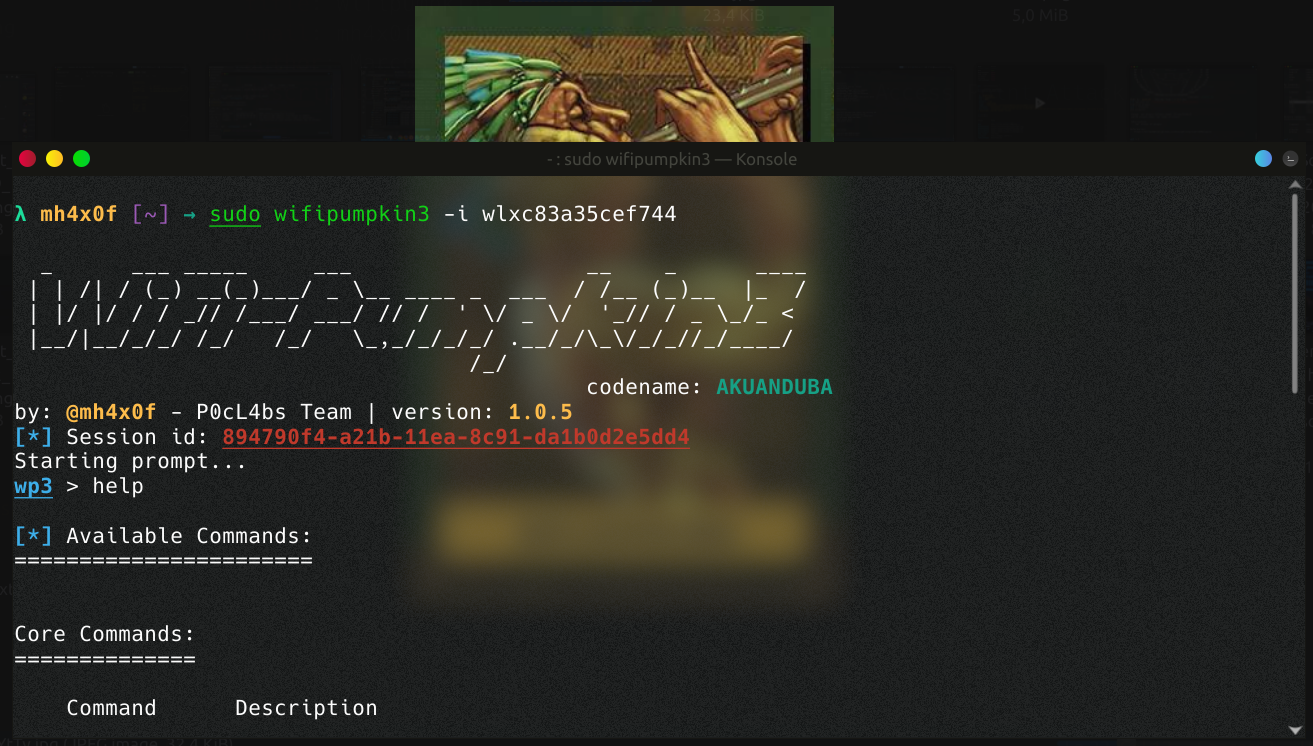
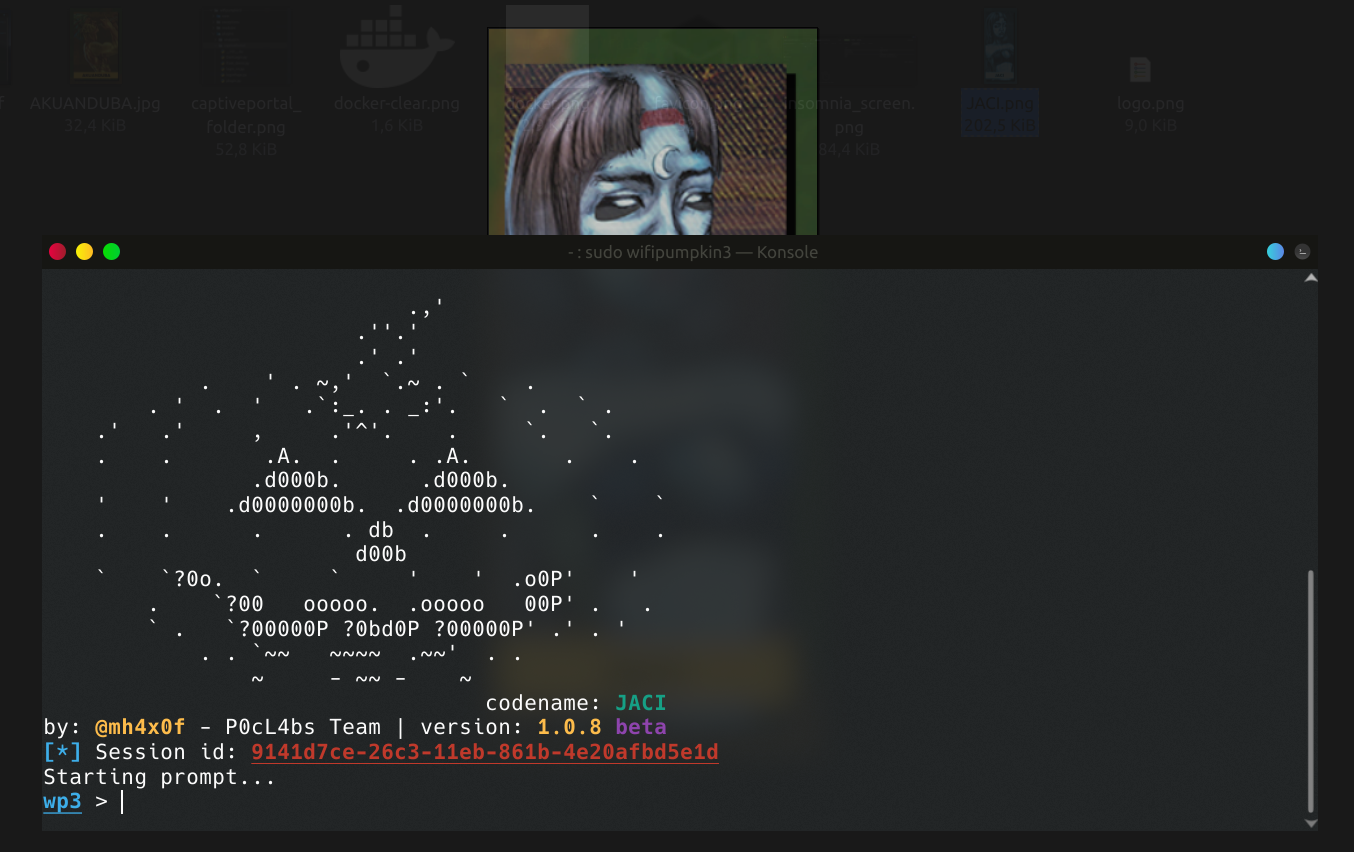
bump version 1.0.8 release

diff --git a/wifipumpkin3/_version.py b/wifipumpkin3/_version.py
@@ -1,3 +1,3 @@
-__version__ = "1.0.x"
-__codename__ = "Developing"
+__version__ = "1.0.8"
+__codename__ = "JACI"
 __branch__ = "beta"

diff --git a/README.md b/README.md
@@ -6,7 +6,7 @@
 [![build status](https://github.com/mh4x0f/wifipumpkin3/workflows/Build/badge.svg)](https://github.com/mh4x0f/wifipumpkin3/actions)
 [![license](https://img.shields.io/badge/license-apache%202-orange)](https://github.com/mh4x0f/wifipumpkin3/blob/dev/LICENSE.md)
 [![changelog](https://img.shields.io/badge/change-log-yellow)](https://github.com/mh4x0f/wifipumpkin3/blob/dev/CHANGELOG.md)
-[![changelog](https://img.shields.io/badge/version-1.0.5-blue)](https://github.com/mh4x0f/wifipumpkin3/)
+[![changelog](https://img.shields.io/badge/version-1.0.8-blue)](https://github.com/mh4x0f/wifipumpkin3/)
 [![code style](https://img.shields.io/badge/code%20style-black-000000.svg)](https://github.com/ambv/black)
 
 ![AKUANDUBA](/docs/screenshot.png)
@@ -28,6 +28,7 @@
 - Credentials harvesting
 - Transparent Proxies
 - LLMNR, NBT-NS and MDNS poisoner ([Responder3](https://github.com/skelsec/Responder3)) 
+- RestFulAPI 
 - and **more**!
 
 ### Donation

diff --git a/CHANGELOG.md b/CHANGELOG.md
@@ -2,9 +2,9 @@
 All notable changes to this project will be documented in this file.
 
 
-## [unReleased]
+## [Released]
 
-## [1.0.x] - 2020-xx-xx
+## [1.0.8] - 2020-11-14
 
 ### Added
 - added inactivity poll default value to 60 min #67
